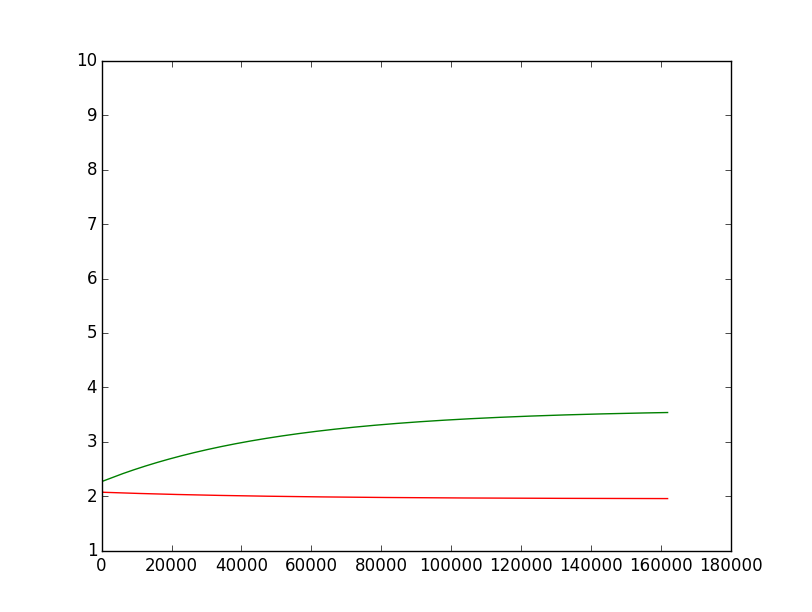
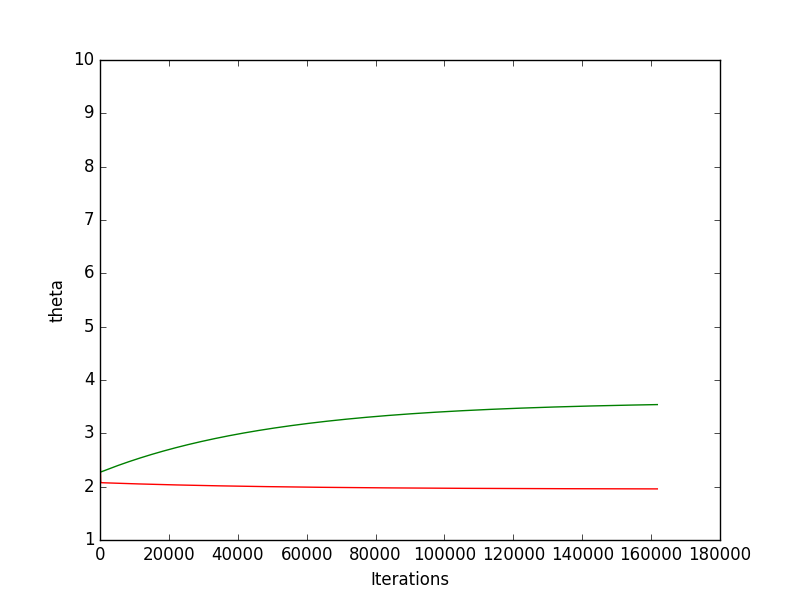
correction graphes

diff --git a/tp4/plot.py b/tp4/plot.py
@@ -40,10 +40,11 @@ else:
 
 ##### Graphs #####
 
-plt.plot(x2, y2,'ro')
-plt.plot(x2, np.dot(moindre_carre(res, y2), res), 'g')
+plt.plot(x2, y2,'ro', label="datas")
+plt.plot(x2, np.dot(moindre_carre(res, y2), res), 'g', label="estimation")
 plt.xlabel('Temps (s)')
 plt.ylabel('Position (m)')
+plt.legend(loc=4)
 plt.show()
 
 #################

diff --git a/tp3/plot.py b/tp3/plot.py
@@ -70,6 +70,9 @@ print "jlinfini =", jlinf(x, p, DG[-1])
 plt.plot(range(0, len(DG)), [DG[i][0] for i in range(0, len(DG))], "r")
 plt.plot(range(0, len(DG)), [DG[i][1] for i in range(0, len(DG))], "g")
 
+plt.xlabel("Iterations")
+plt.ylabel("theta")
+
 plt.legend()
 plt.show()
 

diff --git a/README.md b/README.md
@@ -3,11 +3,16 @@ Tristan Camus
 
 # Fondements de l'apprentissage automatique
 
+Chaque TP peut être lancé de la même manière
+
+    cd tpX/
+    python2 plot.py
+
+En remplaçant X par le numéro du TP
+
 ## TP1 - Introduction 
 
-### Lancement
 
-    python2 plot.py
 
 L'execution provoque l'affichage dans la console des différentes mesures de performance (`J(theta)`), ainsi que l'apparition d'un graphique sur lequel figure en rouge les données d'entrée et en vert la courbe d'approximation `y = 2x + 3` (theta1 = 2, theta2 = 3)
 
@@ -27,9 +32,6 @@ Voici les différentes mesures de performance calculées :
 
 ## TP2 - Moindres carrés
 
-### Lancement
-
-    python2 plot.py
 
 On reprend les mêmes données que pour le TP1, mais cette fois ci, l'estimation est calculée par la méthode des moindres carrés. L'execution affiche de nouveau la mesure de performance du TP1 puis affiche les performances obtenues par les moindres carrés, et affiche enfin tous les résultats sur un graphique
 
@@ -57,10 +59,14 @@ La différence entre les données et l'estimation est légèrement plus faible q
 
 ## TP3 - Descente de gradient
 
-    python2 plot.py
 
 Le graphique affiche l'évolution des theta en au fur et à mesure des itérations de la descente de gradient. Le résutlat obtenu est très similaire à celui des moindres carrés
 
+![evolution des theta au fur et à mesure des itérations](tp3/graph1.png)
+
+Etant donné le grand nombre d'itération, il est nécessaire de zoomer pour voir ce qu'il se passe lors des premières itérations
+
+![evolution des theta au fur et à mesure des itérations (zoom)](tp3/graph2.png)
 
 theta1 = 1.95822488, theta2 = 3.53891134
 
@@ -84,7 +90,6 @@ jlinfini | 2.51624302238 | 2.55866627298 | 2.56355820742
 
 # TP4 - Généralisation
 
-    python2 plot.py
 
 Le but de ce TP est de trouver le meilleur polynome pour approximer les données
 
